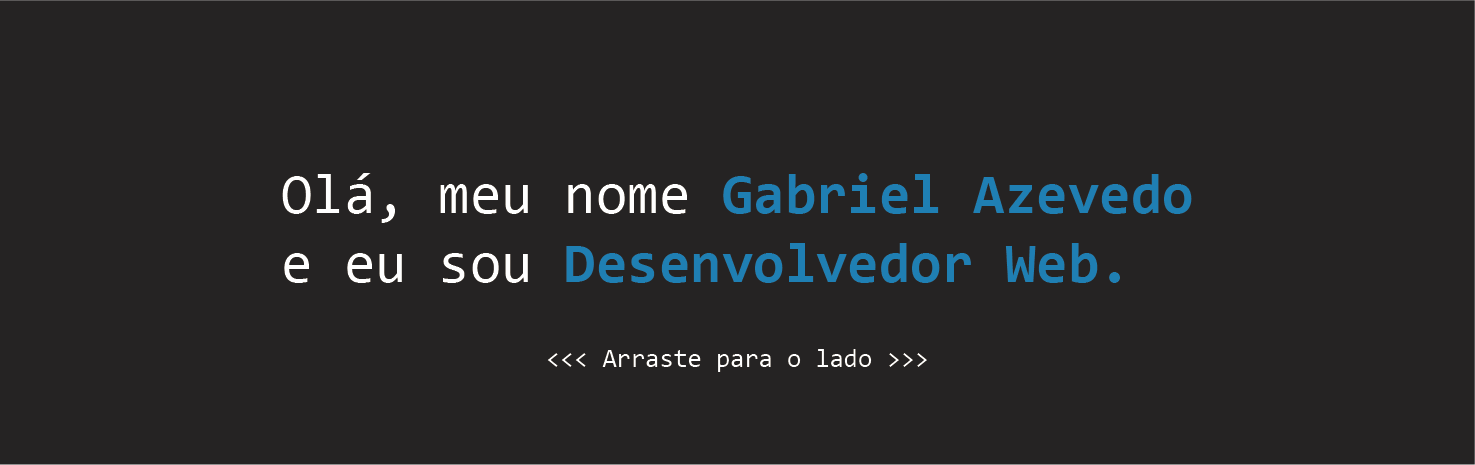
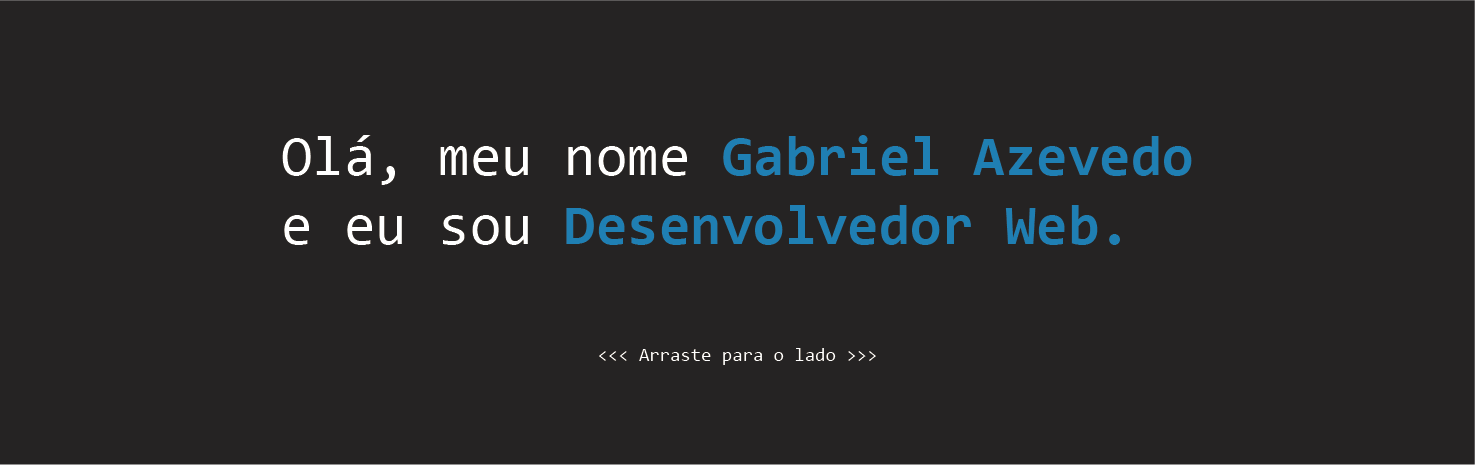
Finalizando Slider Slick

Changed region(s): [[0.1871, 0.271, 0.8108, 0.6323], [0.3742, 0.7527, 0.6237, 0.8129]]

diff --git a/css/main.css b/css/main.css
@@ -16,16 +16,16 @@ position: relative;
 .logo { 
 float: left;        
 padding: 8px 111px;
-width: 55%
+width: 49%
 }
-.rede-sociais ul li{
+.rede-sociais ul li {
 margin-left: 33px;
 display: inline-block;
 list-style: none;
 float: left;
 }
 .rede-sociais {
-width: 23%;
+width: 24%;
 float: right;
 padding: 9px 37px;
 }
@@ -37,6 +37,7 @@ height: 77px;
 .menu-urls {
 border-top: 3px solid #1B7FB8;
 height: 80px;
+width: auto;
 }
 .menu ul li {
 display: inline-block;
@@ -59,7 +60,7 @@ color: #1B7FB8;
 .menu {
 width: 70%;
 float: left;
-padding: 11px 37px;
+padding: 11px 37px 0px;
 }
 .busca {
 width: 18.8%;
@@ -84,3 +85,48 @@ width: 100%;
 height: auto;
 float: left;
 }  
+button.slick-prev {
+font-size: 0px;
+border: none;
+width: 69px;
+height: 61px;
+z-index: 9;
+background-color: transparent;
+position: absolute;
+background-image: url('../img/setaanterior.png');
+top: 54%;
+left: 6%;
+}
+button.slick-next {
+font-size: 0px;
+border: none;
+width: 69px;
+height: 61px;
+z-index: 9;
+background-color: transparent;
+position: absolute;
+background-image: url('../img/setaproximo.png');
+top: 54%;
+right: 6%;
+}
+.slider-principal {
+width: 100%!important;
+}
+ul.slick-dots li button {
+display: inline-block;
+font-size: 0px;
+border: 3px solid #1B7FB8;
+border-radius: 50%;
+width: 20px;
+height: 20px;   
+}
+ul.slick-dots li.slick-active {
+background-color: #1B7FB8;
+}
+.slick-list {
+    width: 100%!important;
+}
+.slick-initialized {
+    overflow: hidden;
+    width: auto;
+}

diff --git a/index.html b/index.html
@@ -66,8 +66,8 @@
     <div class="col-100">
         <div class="slider-principal">
                 <img src="./img/slider1.png">
-                <img src="./img/slider1.png">
-                <img src="./img/slider1.png">
+                <img src="./img/slider2.png">
+                <img src="./img/slider3.png">
         </div>
     </div>
     <script type="text/javascript" src="https://code.jquery.com/jquery-1.11.0.min.js"></script>

diff --git a/js/main.js b/js/main.js
@@ -1,1 +1,9 @@
-$('.slider-principal').slick();
+$('.slider-principal').slick({
+    dots: true,
+    infinite: true,
+    speed: 500,
+    slidesToShow: 1,
+    adaptiveHeight: true,
+    autoplay: true,
+    autoplaySpeed: 3000
+  });
